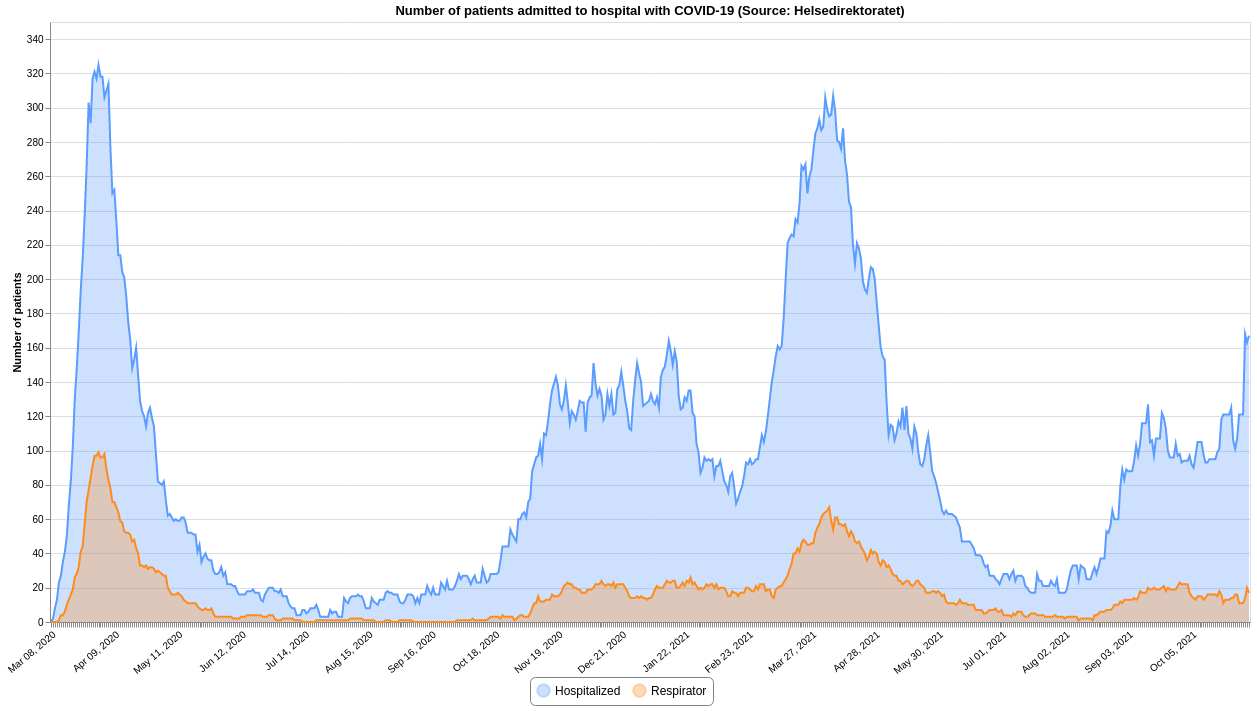
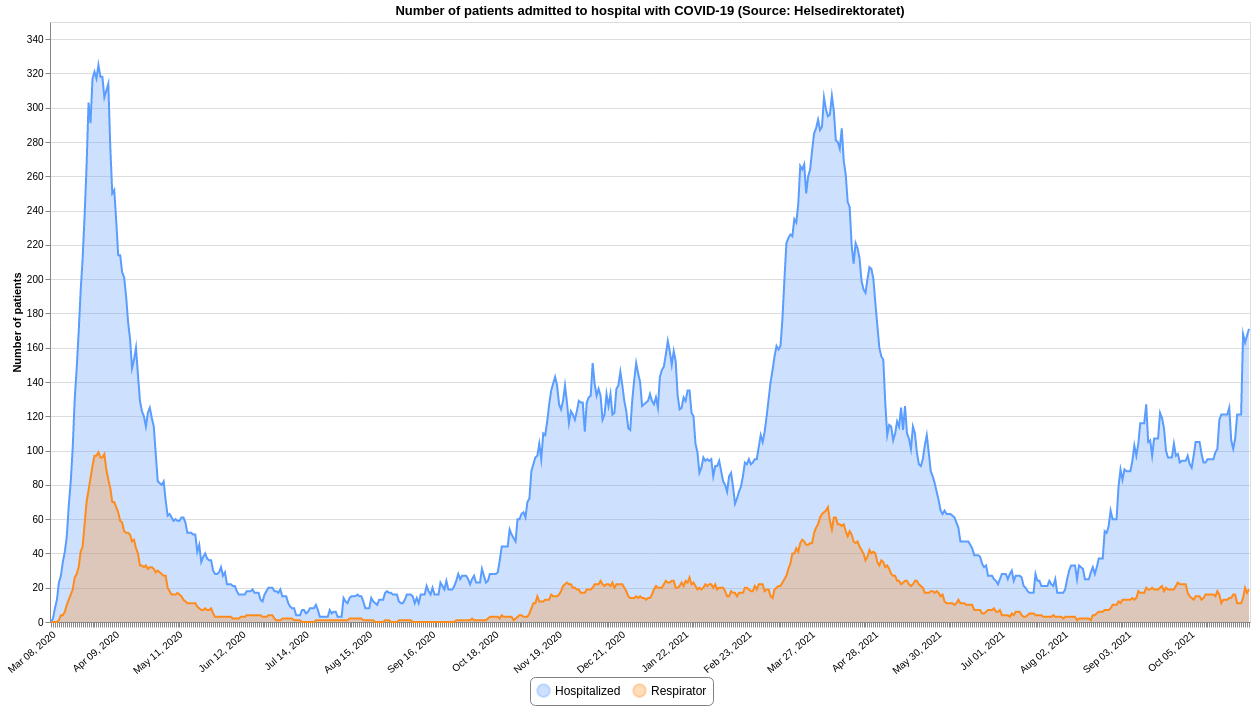
Updated 2021-11-04 13:51

diff --git a/README.md b/README.md
@@ -12,7 +12,7 @@ This repository contains datasets of daily time-series data related to COVID-19 
 | :--- | :--- | :--- | :--- | :--- |
 |[Confirmed](#confirmedcsv)|FHI / MSIS|2021-11-04 13:20:57+01:00|[<center>csv</center>](https://raw.githubusercontent.com/frefrik/covid19norge-data/main/data/confirmed.csv)|[<center>preview</center>](data/confirmed.csv)|
 |[Dead](#deadcsv)|FHI|2021-11-04 13:21:00+01:00|[<center>csv</center>](https://raw.githubusercontent.com/frefrik/covid19norge-data/main/data/dead.csv)|[<center>preview</center>](data/dead.csv)|
-|[Hospitalized](#hospitalizedcsv)|Helsedirektoratet|2021-11-03 13:00:42+01:00|[<center>csv</center>](https://raw.githubusercontent.com/frefrik/covid19norge-data/main/data/hospitalized.csv)|[<center>preview</center>](data/hospitalized.csv)|
+|[Hospitalized](#hospitalizedcsv)|Helsedirektoratet|2021-11-04 13:50:51+01:00|[<center>csv</center>](https://raw.githubusercontent.com/frefrik/covid19norge-data/main/data/hospitalized.csv)|[<center>preview</center>](data/hospitalized.csv)|
 |[Tested](#testedcsv)|FHI|2021-11-04 13:10:49+01:00|[<center>csv</center>](https://raw.githubusercontent.com/frefrik/covid19norge-data/main/data/tested.csv)|[<center>preview</center>](data/tested.csv)|
 |[Tested Lab](#tested_labcsv)|FHI|2021-11-04 13:20:54+01:00|[<center>csv</center>](https://raw.githubusercontent.com/frefrik/covid19norge-data/main/data/tested_lab.csv)|[<center>preview</center>](data/tested_lab.csv)|
 |[Transport](#transportcsv)|FHI|2021-09-24 23:10:46+02:00|[<center>csv</center>](https://raw.githubusercontent.com/frefrik/covid19norge-data/main/data/transport.csv)|[<center>preview</center>](data/transport.csv)|
